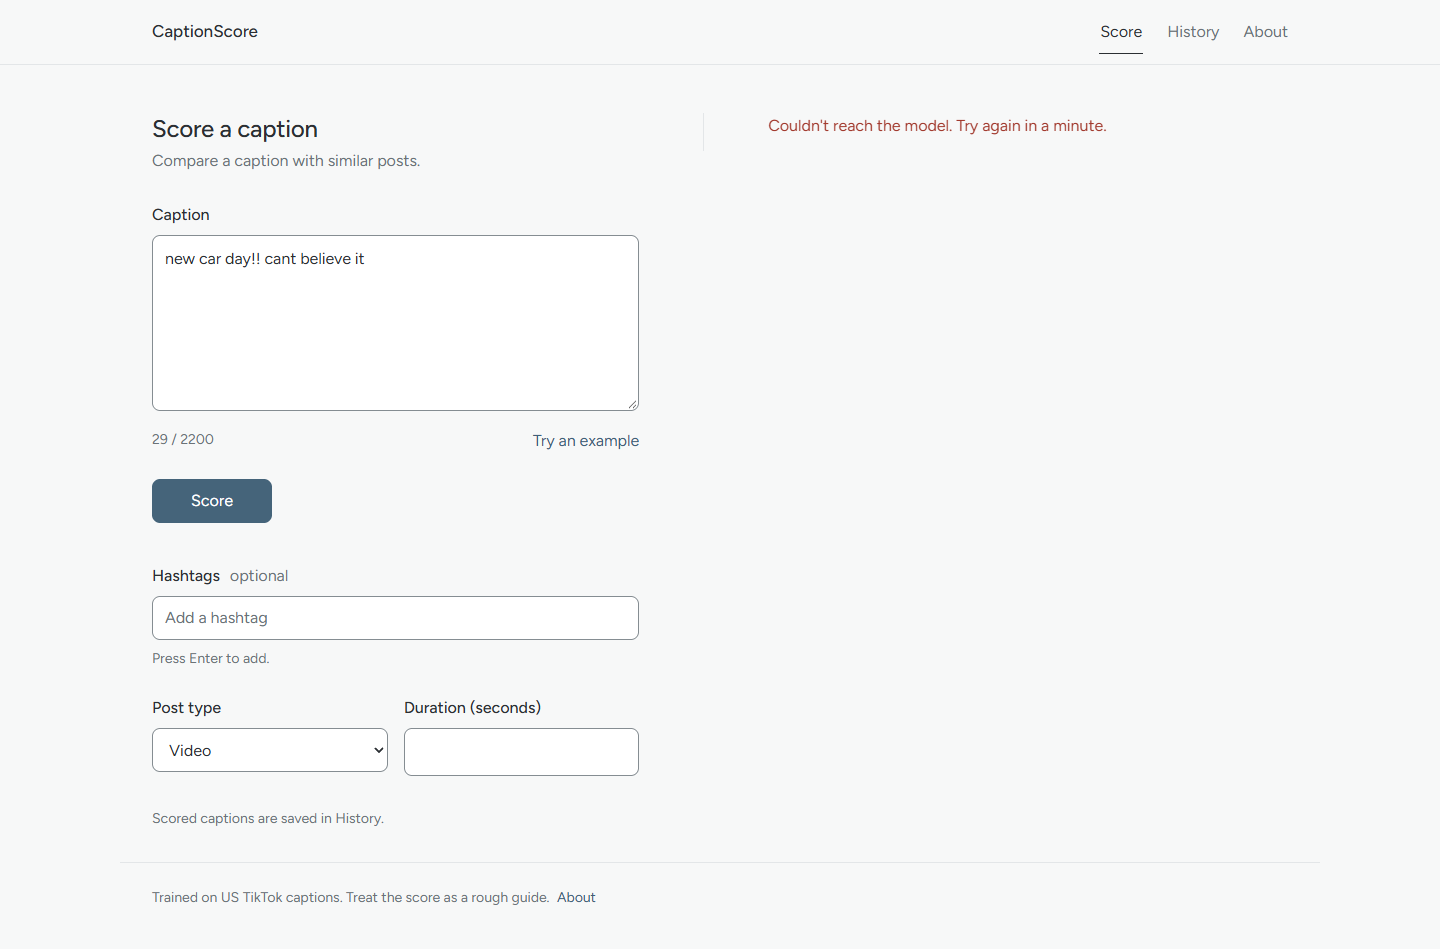
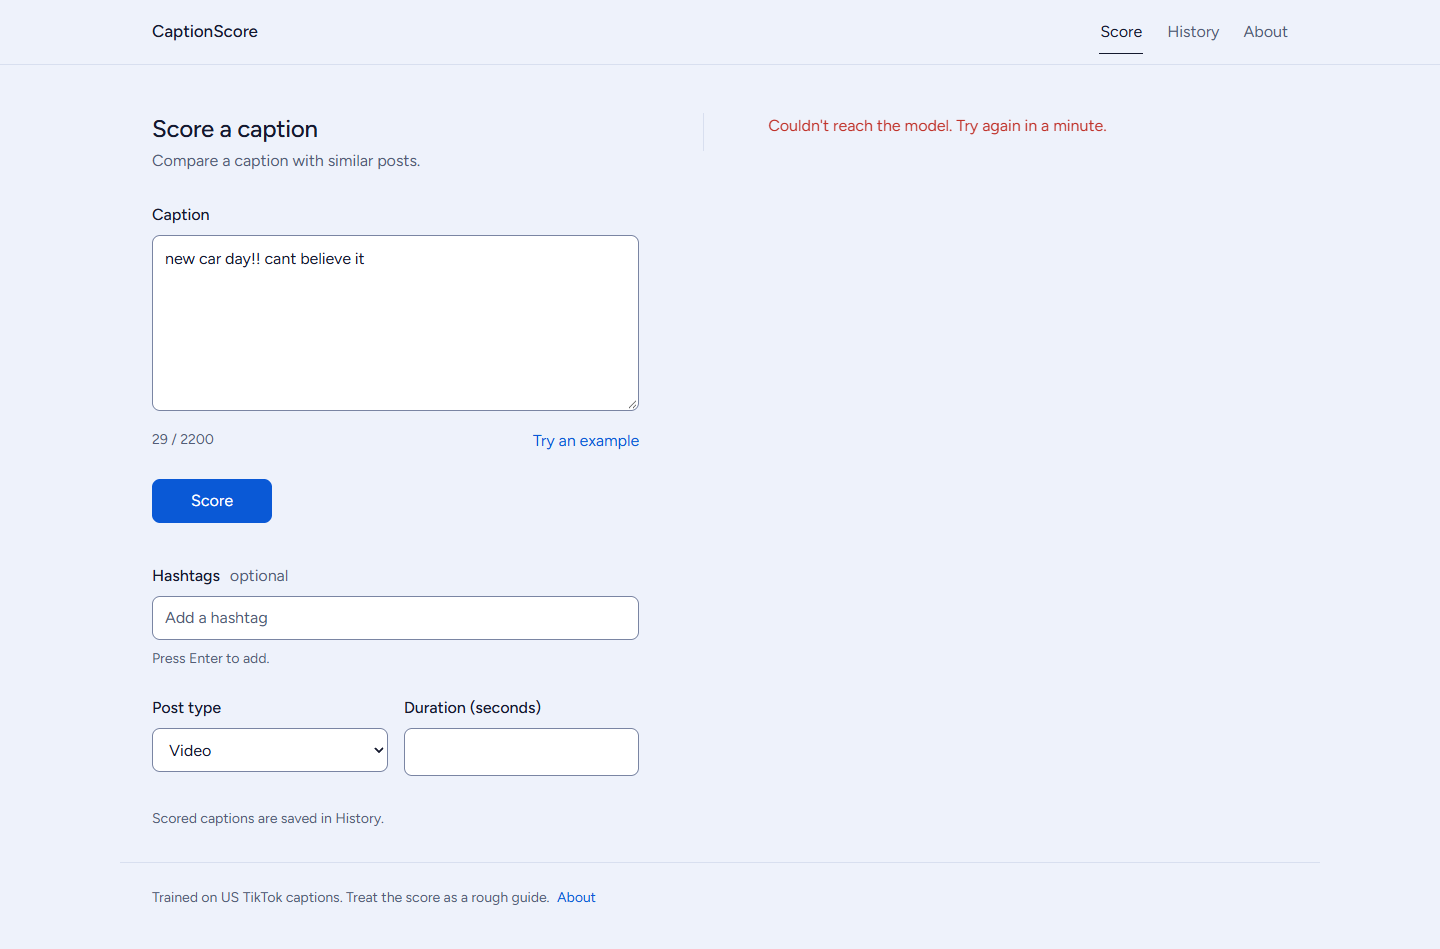
Light theme palette (periwinkle background, blue primary, violet/orange word highlights); tidy comments and docs; project-relative paths in logs

Changed region(s): [[0.0938, 0.4889, 0.1875, 0.5501], [0.375, 0.4584, 0.4375, 0.4889]]

diff --git a/frontend/src/styles.css b/frontend/src/styles.css
@@ -1,39 +1,39 @@
-/* CaptionScore: quiet, minimal theme.
+/* CaptionScore theme.
 
    Light is the default; dark follows the system preference with the same roles.
                        light      dark
-     background        #f7f8f8    #1b1e21
+     background        #eef2fb    #1b1e21
      surface (fields)  #ffffff    #23272b
-     ink               #2b2f33    #e4e7e9
-     muted text        #6b7378    #9aa3a8
-     hairline          #e3e6e8    #33383d
-     accent (button)   #4f7088    #4f7088
-     raises score      #2f6f9f    #5596cc   (blue, solid underline)
-     lowers score      #b26a1e    #c4843e   (amber, dashed underline)
-   Raise/lower differ for colour-blind users (CVD dE ~19) and by underline style.
+     ink               #14192e    #e4e7e9
+     muted text        #535d78    #9aa3a8
+     hairline          #d8dfef    #33383d
+     accent (button)   #116dff    #4f7088
+     raises score      #6b4fd8    #5596cc   (solid underline)
+     lowers score      #c95a1c    #c4843e   (dashed underline)
+   Raise/lower differ for colour-blind users (CVD dE > 19) and by underline style.
    Every text pair is checked for WCAG AA in src/test/contrast.test.js.
 
    One font (Figtree), one radius (8px; hashtag chips are the only pills), no shadows,
    gradients or dashed borders. Space and hairlines separate things instead of boxes. */
 :root {
-  --bg: #f7f8f8;
+  --bg: #eef2fb;
   --surface: #ffffff;
-  --ink: #2b2f33;
-  --muted: #6b7378;
-  --border: #e3e6e8;
-  --control: #858d92; /* input outlines: >= 3:1 against bg and surface (WCAG 1.4.11) */
-  --accent: #4f7088;
-  --accent-hover: #45647a;
+  --ink: #14192e;
+  --muted: #535d78;
+  --border: #d8dfef;
+  --control: #7a85a3; /* input outlines: >= 3:1 against bg and surface (WCAG 1.4.11) */
+  --accent: #116dff;
+  --accent-hover: #0a59d6;
   --accent-ink: #ffffff;
-  --link: #3f6178;
-  --focus: #4f7088;
-  --raise: #2f6f9f;
-  --lower: #b26a1e;
-  --chip-bg: #edf0f2;
-  --chip-ink: #2b2f33;
-  --disabled-bg: #eceeef;
-  --disabled-ink: #5f676c;
-  --error: #a23a2e;
+  --link: #0b5ad9;
+  --focus: #116dff;
+  --raise: #6b4fd8;
+  --lower: #c95a1c;
+  --chip-bg: #e6edff;
+  --chip-ink: #14192e;
+  --disabled-bg: #e1e7f3;
+  --disabled-ink: #4b5571;
+  --error: #c0322a;
 
   --font: 'Figtree Variable', 'Segoe UI', Helvetica, Arial, sans-serif;
   --radius: 8px;
@@ -132,7 +132,7 @@ a:focus-visible {
   border-radius: var(--radius);
 }
 
-/* ---------- layout (structure unchanged) ---------- */
+/* ---------- layout ---------- */
 /* side padding only: a padding shorthand here would wipe main's top padding */
 .container {
   width: 100%;

diff --git a/frontend/src/components/ResultPanel.jsx b/frontend/src/components/ResultPanel.jsx
@@ -72,8 +72,8 @@ export default function ResultPanel({ result, onAddHashtag, addedHashtags = [] }
 
       <HighlightedCaption tokens={tokens} />
       <p className="key small muted">
-        <span className="key-up">Blue, solid underline</span> raises the score.{' '}
-        <span className="key-down">Amber, dashed</span> lowers it.
+        <span className="key-up">Solid underline</span> raises the score.{' '}
+        <span className="key-down">Dashed underline</span> lowers it.
       </p>
 
       <WordList label="Raised it most:" items={up} max={max} />

diff --git a/ml/src/finetune_transformer.py b/ml/src/finetune_transformer.py
@@ -1,5 +1,5 @@
-"""Phase 4b: fine-tune DistilBERT on captions. Meant for a GPU (Google Colab T4); do NOT run
-on this project's CPU-only dev machine.
+"""Phase 4b: fine-tune DistilBERT on captions. Needs a GPU (for example a Google
+Colab T4); training on a CPU would take many hours.
 
 Protocol (same rules as the other models):
   - train on the exported train subsample, EXCLUDING the last 3 training months

diff --git a/docs/data_notes.md b/docs/data_notes.md
@@ -62,7 +62,8 @@ cannot be controlled for. This is the biggest limitation of the project (see `la
    row groups showed that 99.1% and 99.4% of rows with hashtags already contain every tag as
    `#tag` in the caption. We extract tags from the caption by regex instead, which saves about
    18 MB per row group.
-4. **Download:** 4.95 GB over HTTP range requests, approved before running. It is streamed
+4. **Download:** 4.95 GB over HTTP range requests (the sampler stops above `max_download_gb`
+   unless run with `--confirm`). It is streamed
    through memory and not stored.
 5. **Cleaning** (`ml/src/cleaning.py`, tested in `ml/tests/test_cleaning.py`):
    `language == 'en'`, `type == 'video'`, non-empty caption, `views > 0`, and age at capture
@@ -124,7 +125,7 @@ row groups. v1 is US-only, so:
 - Every step-1 row group that was already pure US is kept as is, with no download.
 - Every other one is replaced by a random pure-US row group from the same half of the file
   (seed 4242), cleaned with `country == 'US'` added, and subsampled to 7,500 rows.
-- **15 months affected, 17 row groups replaced, 0.75 GB** read (approved).
+- **15 months affected, 17 row groups replaced, 0.75 GB** read.
 - Result: `ml/data/sample_us_en_2022-01_2026-08.parquet` has **840,000 rows, exactly 15,000 in
   every one of the 56 months, 100% US**. 2023-11 is filled (no gap), and the 2022-06 shortfall
   is fixed because its small final row group was a mixed block and was replaced.

diff --git a/README.md b/README.md
@@ -112,7 +112,7 @@ Tests: `cd ml && pytest`, `cd model-service && .venv/Scripts/python -m pytest`,
 `cd backend && npm test`, `cd frontend && npm test`.
 
 `docker-compose.yml` and a Dockerfile per service are included for later use with Docker
-Desktop. They have **not been tested yet** (Docker isn't installed on the dev machine).
+Desktop. They have **not been tested yet**.
 
 ## Limitations
 _TBD._

diff --git a/model-service/README.md b/model-service/README.md
@@ -25,7 +25,7 @@ python -m venv .venv
 .venv/Scripts/python -m pytest                     # tests use a tiny synthetic model
 ```
 
-## Docker (untested: Docker isn't installed on the dev machine)
+## Docker (not tested yet)
 ```bash
 docker build -f model-service/Dockerfile -t captionscore-model .   # from the repo root
 docker run -p 8000:8000 captionscore-model
